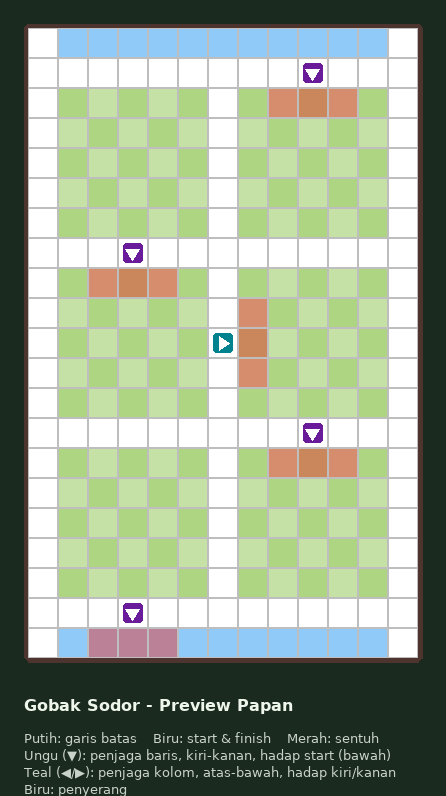
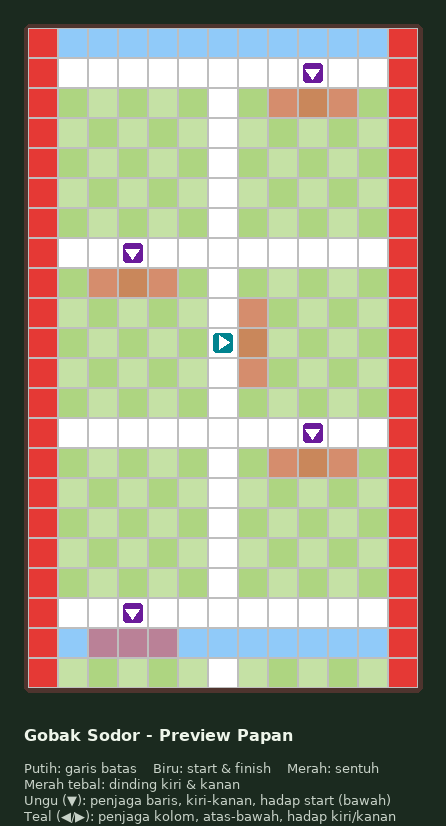
Dinding kiri-kanan merah dan tambah 1 baris di bawah garis start

diff --git a/preview/index.html b/preview/index.html
@@ -68,7 +68,8 @@
     background: var(--threat);
     pointer-events: none;
   }
-  .cell.z-wall, .cell.z-lane { background: var(--white); }
+  .cell.z-lane { background: var(--white); }
+  .cell.z-wall { background: #e53935; }
   .cell.z-start { background: var(--start); }
   .cell.z-end { background: var(--end); }
   .cell.z-field { background: var(--field); }
@@ -124,6 +125,7 @@
 
 <div class="legend">
   <span><span class="swatch" style="background:#fff"></span>Garis batas (kolom & baris)</span>
+  <span><span class="swatch" style="background:#e53935"></span>Dinding kiri & kanan</span>
   <span><span class="swatch" style="background:var(--start)"></span>Garis start</span>
   <span><span class="swatch" style="background:var(--end)"></span>Garis akhir</span>
   <span><span class="swatch" style="background:var(--field)"></span>Lapangan 5×5</span>
@@ -138,7 +140,7 @@
   // Kolom (x): 0 = dinding, 1-5 = blok kiri, 6 = batas tengah, 7-11 = blok kanan, 12 = dinding
   // Baris (y): 0 = garis start, 1/7/13/19 = batas antar baris, 2-6/8-12/14-18 = blok lapangan, 20 = garis akhir
   const COLS = 13;
-  const ROWS = 21;
+  const ROWS = 22;
   const LEFT_WALL = 0;
   const RIGHT_WALL = 12;
   const CENTER_X = 6;
@@ -154,7 +156,7 @@
     return 'field';
   }
   const ZONE_NAME = {
-    wall: 'Garis batas kolom (putih)',
+    wall: 'Dinding (merah)',
     lane: 'Garis batas antar baris/kolom (putih)',
     start: 'Garis start',
     end: 'Garis akhir',
